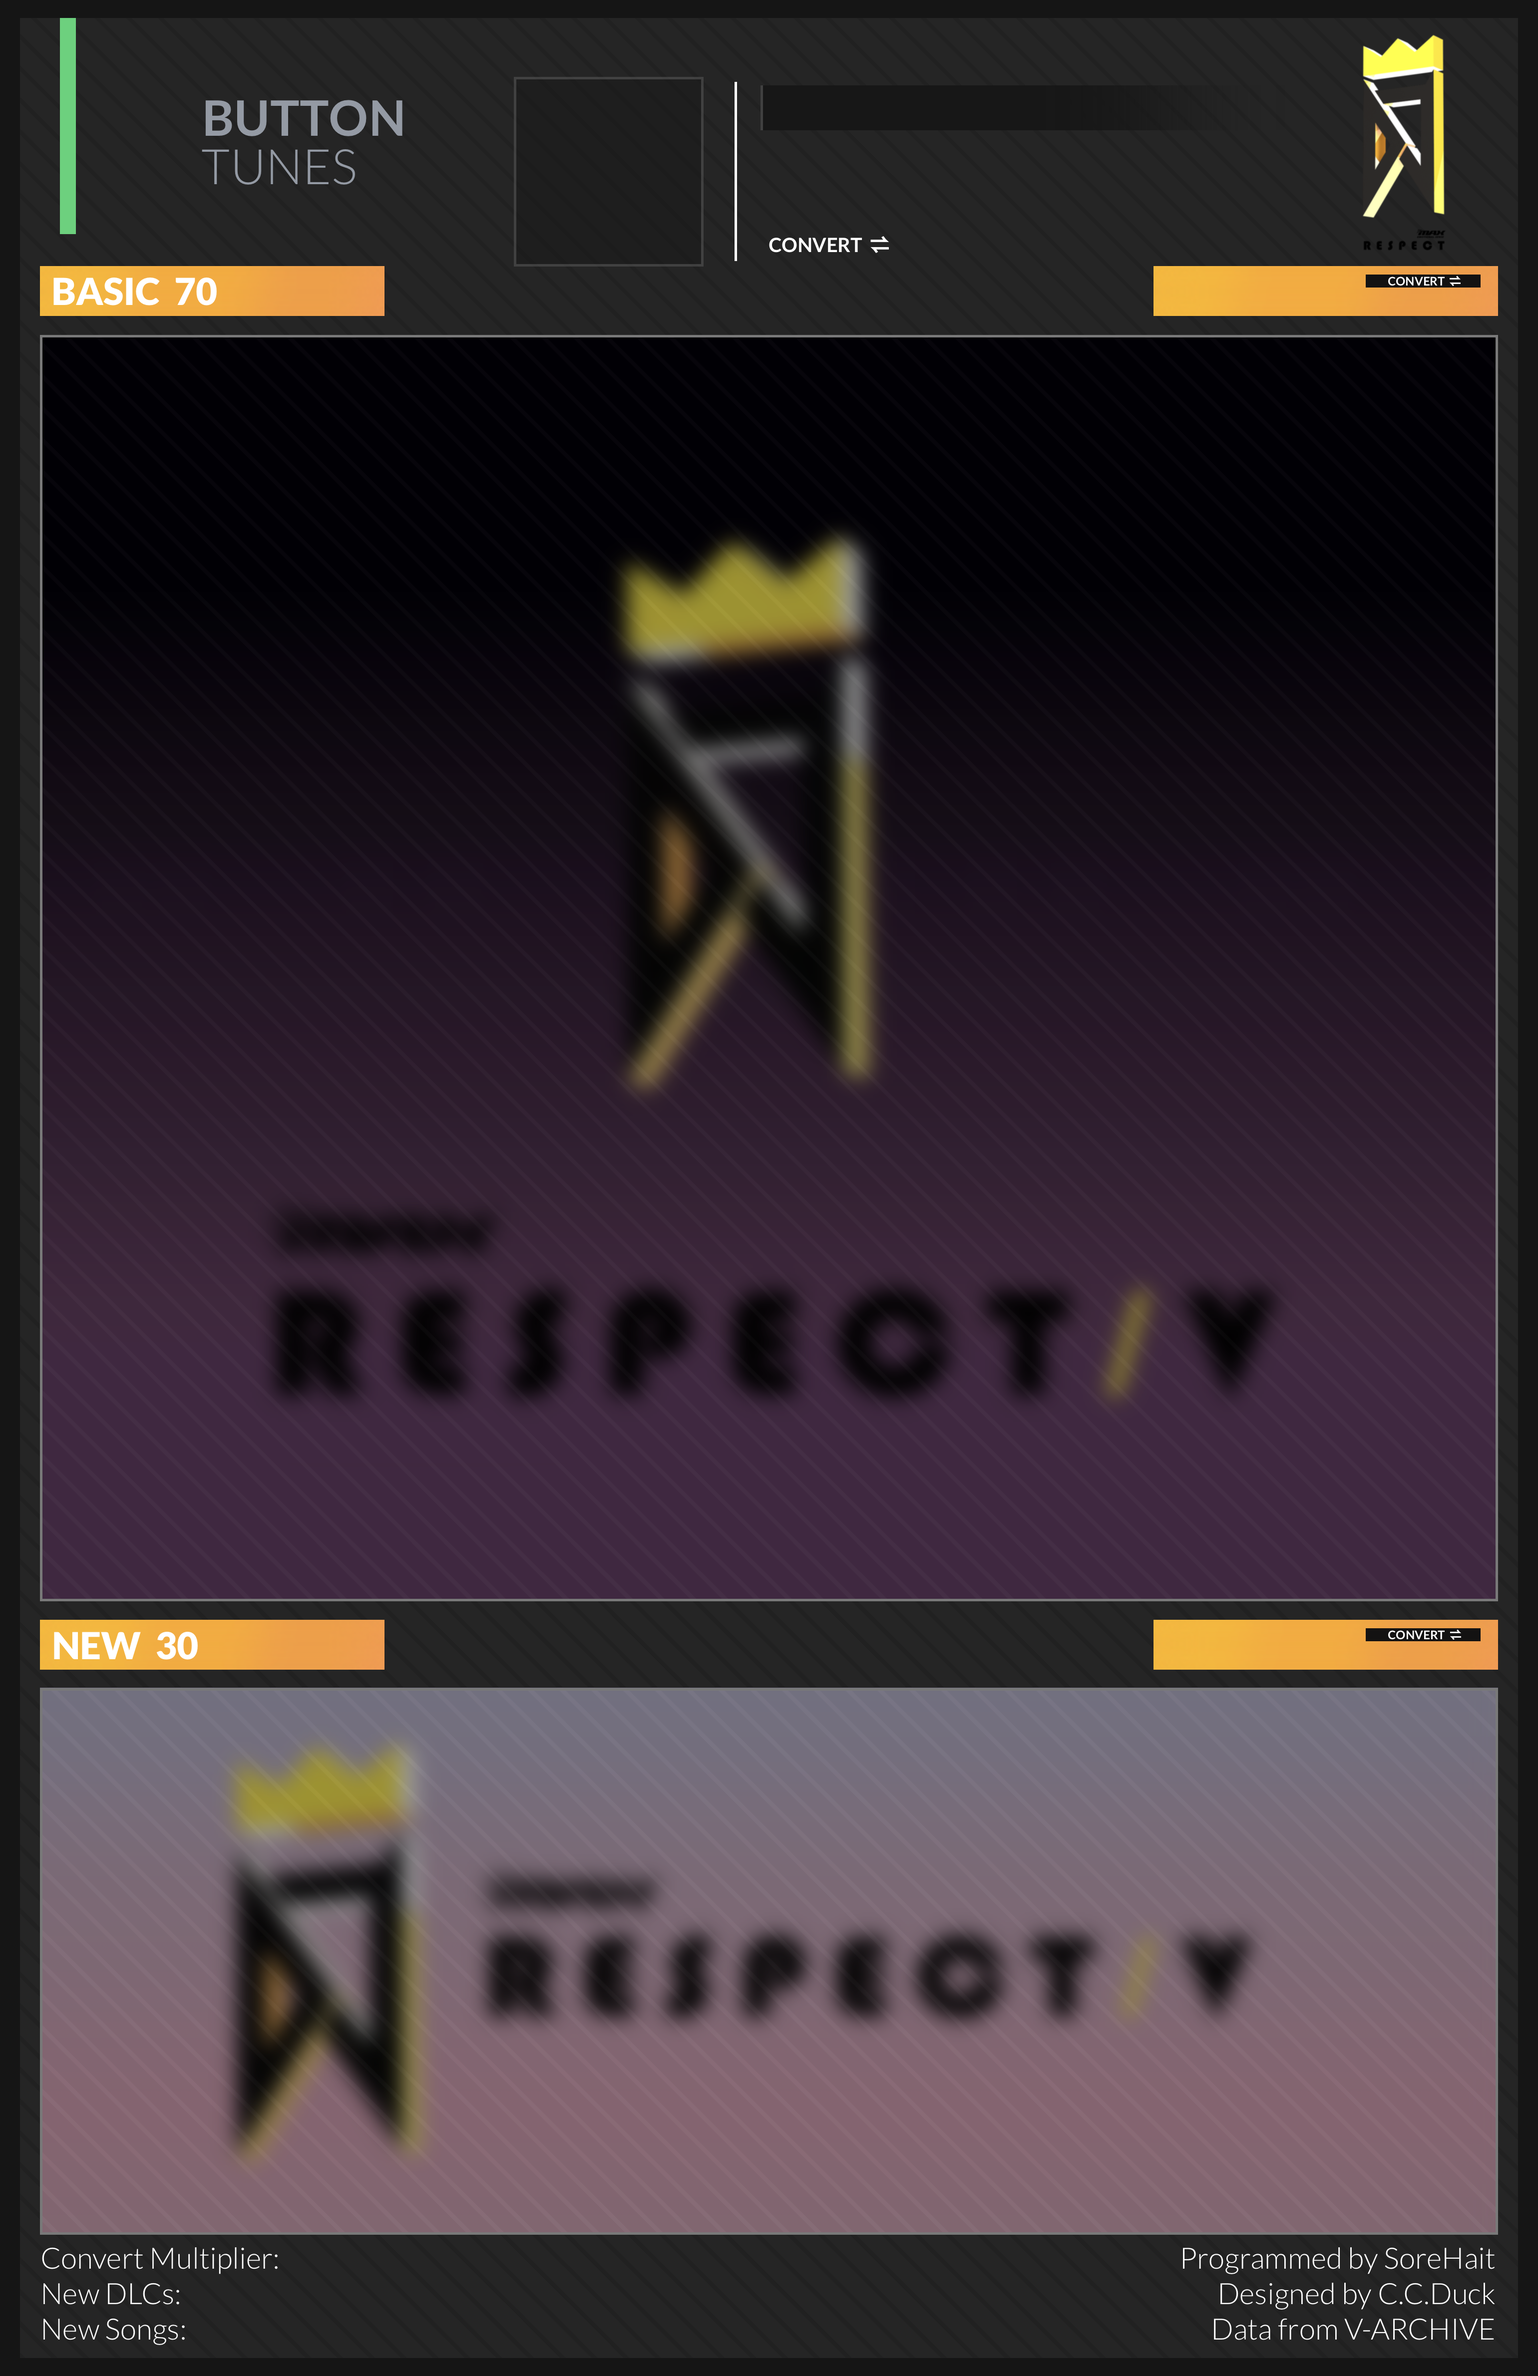
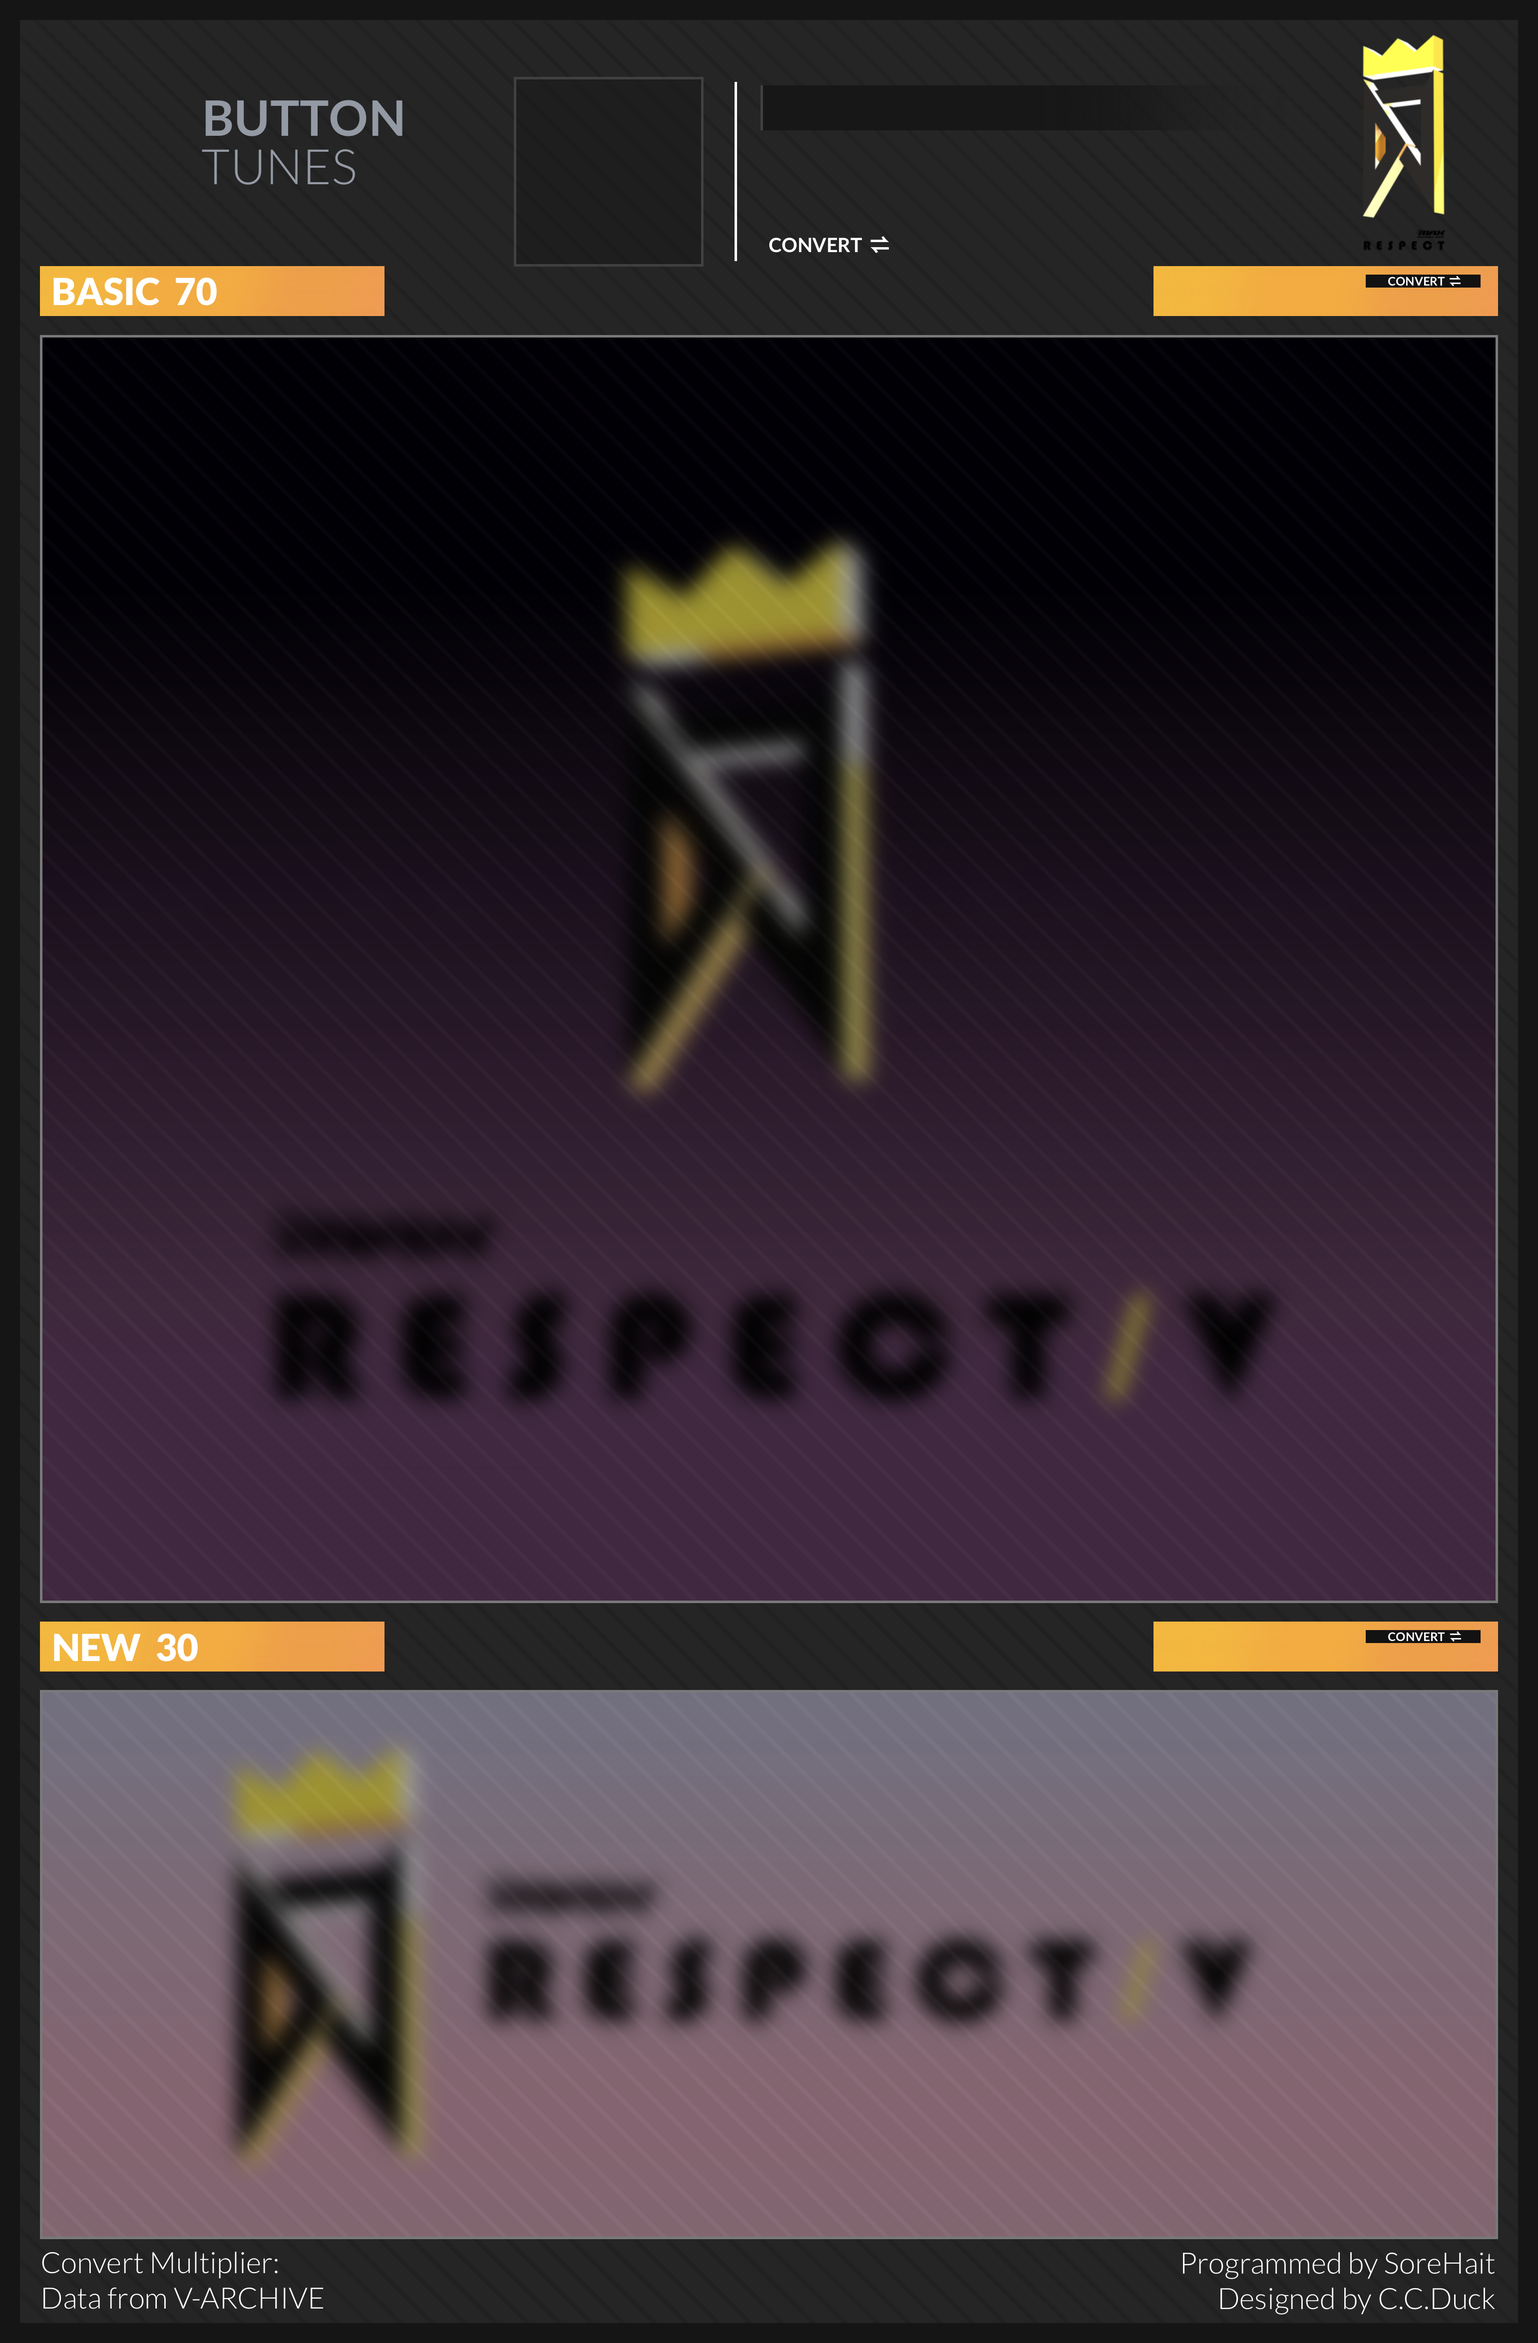
adjust top100 image layout

diff --git a/djmax_bests/bests_generate.py b/djmax_bests/bests_generate.py
@@ -48,9 +48,9 @@ async def generate_single_song(idx: int, type: str, song: models.DMSong) -> Imag
 
 async def generate_bests_image(data: models.DMBests, is_max: bool = False) -> Image.Image:
     gap = 20
-    basic_start = (100, 688)
-    new_start = (100, 3398)
-    bmode_strip_box = (119, 36, 151, 468)
+    basic_start = (100, 691)
+    new_start = (100, 3405)
+    bmode_strip_box = (119, 40, 151, 468)
     emblem_lt = (1029, 154)
 
     bg = Image.open(os.path.join(IMAGE_PATH, "bg.png"))
@@ -101,8 +101,8 @@ async def generate_bests_image(data: models.DMBests, is_max: bool = False) -> Im
         bg.paste(song_image, (x, y))
 
     # NEW section
-    draw.text((2520, 3292), f"{data.total_new_djpower:.4f}", font=font_rg, fill='white', anchor="mm")
-    draw.text((2850, 3312), f"{data.total_new_djpower_raw:.4f}", font=font_rg_s, fill='white', anchor="mm")
+    draw.text((2520, 3295), f"{data.total_new_djpower:.4f}", font=font_rg, fill='white', anchor="mm")
+    draw.text((2850, 3315), f"{data.total_new_djpower_raw:.4f}", font=font_rg_s, fill='white', anchor="mm")
     for idx, song in enumerate(data.new):
         song_image = await generate_single_song(idx + 1, "new", song)
         x = new_start[0] + (idx % 5) * (560 + gap)
@@ -110,6 +110,7 @@ async def generate_bests_image(data: models.DMBests, is_max: bool = False) -> Im
         bg.paste(song_image, (x, y))
 
     # footnote
-    draw.text((570, 4545), f"{api_handler.get_convert_constant(data.bmode):.8f}", font=font_lt, fill='white', anchor="ls")
+    conv_const, maxpower = api_handler.get_convert_constant(data.bmode)
+    draw.text((570, 4553), f"{conv_const:.8f} ({maxpower:.2f})", font=font_lt, fill='white', anchor="ls")
 
     return bg

diff --git a/djmax_bests/api_handler.py b/djmax_bests/api_handler.py
@@ -35,11 +35,12 @@ async def get_cover(songid: int) -> Image.Image:
         print(f'Failed to get cover {songid}')
         return Image.new('RGB', (80, 80), color='black')
 
-def get_convert_constant(bmode: int) -> Decimal:
+def get_convert_constant(bmode: int) -> tuple[Decimal, Decimal]:
     maxpower_file = os.path.join(CACHE_PATH, f'maxpower_{bmode}.txt')
     if os.path.exists(maxpower_file):
         with open(maxpower_file, 'r') as f:
-            return Decimal("10000.0000") / Decimal(f.read().strip())
+            maxpower = Decimal(f.read().strip())
+            return Decimal("10000.0000") / maxpower, maxpower
 
     print(f'maxpower cache for {bmode}b invalidated, fetching new one')
     url = f"https://v-archive.net/api/v2/archive/DEV/djClass/{bmode}"
@@ -48,7 +49,8 @@ def get_convert_constant(bmode: int) -> Decimal:
     data = response.json()
     with open(maxpower_file, 'w') as f:
         f.write(str(data["maxDjPower"]))
-    return Decimal("10000.0000") / Decimal(data["maxDjPower"])
+    maxpower = Decimal(str(data["maxDjPower"]))
+    return Decimal("10000.0000") / maxpower, maxpower
 
 async def fetch_song_db() -> "models.DMSongDB":
     from .models import DMSongDB

diff --git a/djmax_bests/models.py b/djmax_bests/models.py
@@ -154,11 +154,11 @@ class DMBests(BaseModel):
 
     @property
     def total_basic_djpower(self) -> Decimal:
-        return util.cut_digits(self.total_basic_djpower_raw * api_handler.get_convert_constant(self.bmode), 4)
+        return util.cut_digits(self.total_basic_djpower_raw * api_handler.get_convert_constant(self.bmode)[0], 4)
 
     @property
     def total_new_djpower(self) -> Decimal:
-        return util.cut_digits(self.total_new_djpower_raw * api_handler.get_convert_constant(self.bmode), 4)
+        return util.cut_digits(self.total_new_djpower_raw * api_handler.get_convert_constant(self.bmode)[0], 4)
 
     @property
     def total_djpower_raw(self) -> Decimal:
@@ -166,7 +166,7 @@ class DMBests(BaseModel):
 
     @property
     def total_djpower(self) -> Decimal:
-        ret_val = util.cut_digits(self.total_djpower_raw * api_handler.get_convert_constant(self.bmode), 4)
+        ret_val = util.cut_digits(self.total_djpower_raw * api_handler.get_convert_constant(self.bmode)[0], 4)
         if ret_val > Decimal("10000.0000"):
             return Decimal("10000.0000")
         return ret_val
